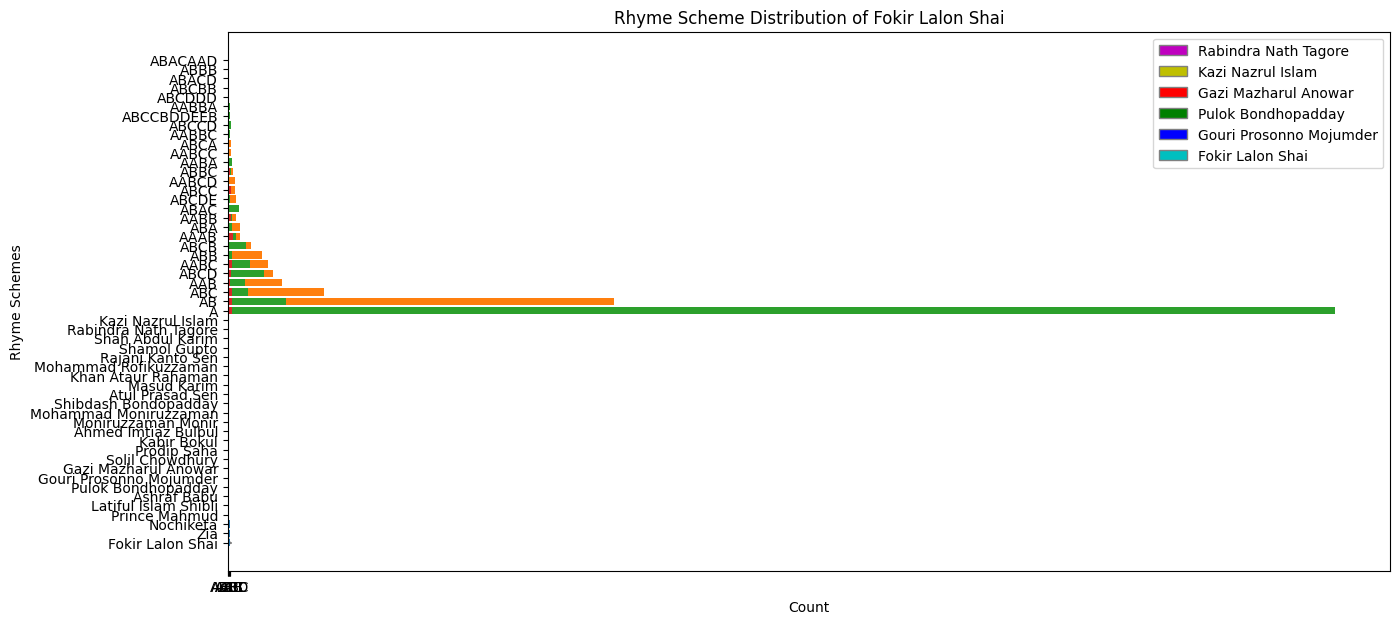
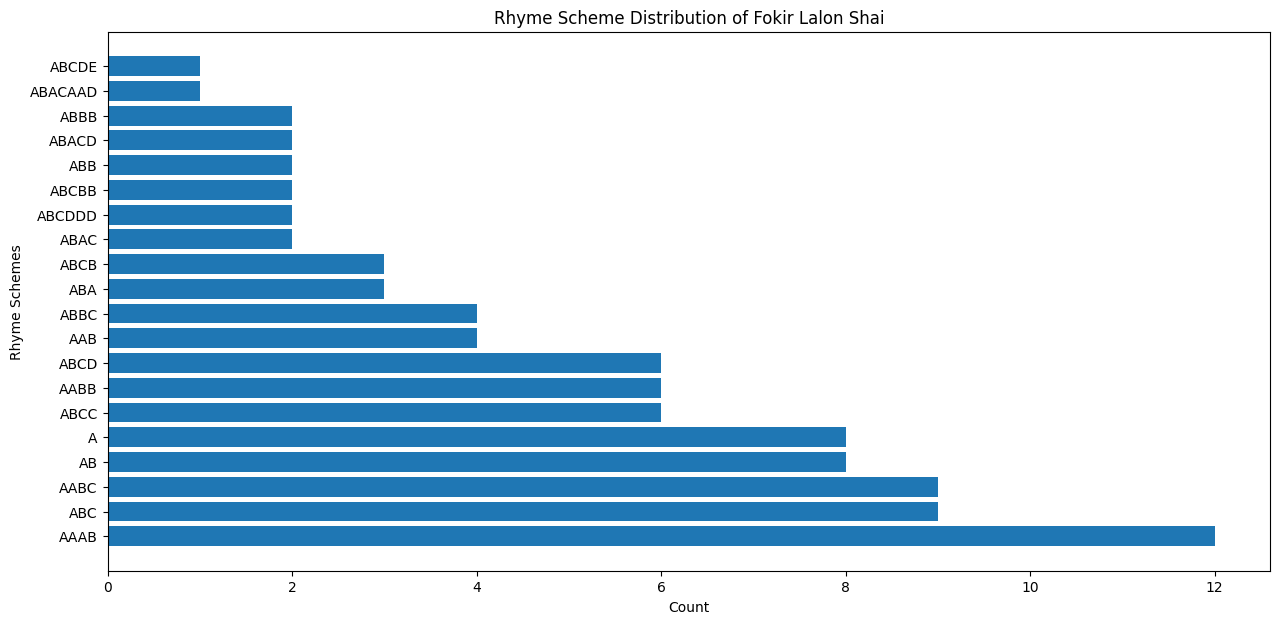
rhymeanalysis

diff --git a/App/cs661-project/client/src/app/rhyme/page.tsx b/App/cs661-project/client/src/app/rhyme/page.tsx
@@ -1,0 +1,186 @@
+'use client'
+import React, { useState, useEffect } from 'react';
+import axios from 'axios';
+
+const BASE_URL = 'http://127.0.0.1:5000';
+
+const RhymeAnalysis = () => {
+  const [selectedTab, setSelectedTab] = useState('entropy');
+  const [data, setData] = useState(null);
+  const [authorNum, setAuthorNum] = useState('');
+  const [selectedAuthor, setSelectedAuthor] = useState('');
+  const [numRhymes, setNumRhymes] = useState('');
+  const [loading, setLoading] = useState(false);
+  const [image, setImage] = useState('');
+
+  useEffect(() => {
+    const fetchData = async () => {
+      try {
+        const response = await axios.get(`${BASE_URL}/data`);
+        setData(response.data);
+      } catch (error) {
+        console.error('Error fetching data:', error);
+      }
+    };
+
+    fetchData();
+  }, []);
+
+  const handleTabChange = (tab) => {
+    setSelectedTab(tab);
+    setImage('');
+  };
+
+  const handleGenerate = async () => {
+    try {
+      setLoading(true);
+      let endpoint = '';
+      switch (selectedTab) {
+        case 'entropy':
+          endpoint = 'rhymepattern';
+          break;
+        case 'topauthor':
+          endpoint = 'topauthor';
+          break;
+        case 'authorhist':
+          endpoint = 'authorhist';
+          break;
+        default:
+          break;
+      }
+
+      let url = `${BASE_URL}/${endpoint}`;
+
+      if (selectedTab === 'authorhist') {
+        url += `?author=${selectedAuthor}&num_rhymes=${numRhymes}`;
+      } else {
+        url += `?author_num=${authorNum}`;
+      }
+
+      const response = await axios.get(url);
+      setImage(url);
+    } catch (error) {
+      console.error('Error generating image:', error);
+    } finally {
+      setLoading(false);
+    }
+  };
+
+  return (
+    <div className="container mx-auto px-4 py-8">
+      <h1 className="text-3xl font-bold mb-4">Rhyme Analysis</h1>
+      <div className="mb-4">
+        <div className="flex">
+          <button
+            className={`mr-2 py-2 px-4 ${selectedTab === 'entropy' ? 'bg-blue-500 text-white' : 'bg-gray-200 text-gray-700'
+              }`}
+            onClick={() => handleTabChange('entropy')}
+          >
+            Entropy Schemes
+          </button>
+          <button
+            className={`mr-2 py-2 px-4 ${selectedTab === 'topauthor' ? 'bg-blue-500 text-white' : 'bg-gray-200 text-gray-700'
+              }`}
+            onClick={() => handleTabChange('topauthor')}
+          >
+            Top Author Rhymes
+          </button>
+          <button
+            className={`mr-2 py-2 px-4 ${selectedTab === 'authorhist' ? 'bg-blue-500 text-white' : 'bg-gray-200 text-gray-700'
+              }`}
+            onClick={() => handleTabChange('authorhist')}
+          >
+            Author Histogram
+          </button>
+        </div>
+      </div>
+
+      {selectedTab === 'entropy' && (
+        <div>
+          <div className="mt-4 flex items-center space-x-2">
+            <label htmlFor="authorNumInput">Number of Authors:</label>
+            <input
+              id="authorNumInput"
+              type="number"
+              value={authorNum}
+              onChange={(e) => setAuthorNum(e.target.value)}
+              className="border border-gray-400 px-2 py-1 rounded"
+            />
+            <button onClick={handleGenerate} className="px-4 py-1 bg-blue-500 text-white rounded hover:bg-blue-600">Generate</button>
+          </div>
+        </div>
+      )}
+
+      {selectedTab === 'topauthor' && (
+        <div className='flex justify-center content-center w-full'>
+          {/* Placeholder for Top Author Rhymes */}
+          <p>Top Author Rhymes section</p>
+          <br />
+          <button onClick={handleGenerate} className="ml-3 px-4 py-1 bg-blue-500 text-white rounded hover:bg-blue-600">Show</button>
+        </div>
+      )}
+
+      {selectedTab === 'authorhist' && (
+        <div>
+          <div className="mt-4 flex items-center space-x-2">
+            <label htmlFor="authorSelect">Select Author:</label>
+            <select
+              id="authorSelect"
+              value={selectedAuthor}
+              onChange={(e) => setSelectedAuthor(e.target.value)}
+              className="border border-gray-400 px-2 py-1 rounded"
+            >
+              <option value="">Select an author</option>
+              {data &&
+                Object.keys(data).map((author) => (
+                  <option key={author} value={author}>
+                    {author}
+                  </option>
+                ))}
+            </select>
+            <label htmlFor="numRhymesInput">Number of Rhymes:</label>
+            <input
+              id="numRhymesInput"
+              type="number"
+              value={numRhymes}
+              onChange={(e) => setNumRhymes(e.target.value)}
+              className="border border-gray-400 px-2 py-1 rounded"
+            />
+            <button onClick={handleGenerate} className="px-4 py-1 bg-blue-500 text-white rounded hover:bg-blue-600">Generate</button>
+          </div>
+        </div>
+      )}
+
+      {loading ? (
+        <div role="status" className='mx-auto flex justify-center w-full'>
+          <svg
+            aria-hidden="true"
+            className="w-8 h-8 text-gray-200 animate-spin dark:text-gray-600 fill-blue-600"
+            viewBox="0 0 100 101"
+            fill="none"
+            xmlns="http://www.w3.org/2000/svg"
+          >
+            <path
+              d="M100 50.5908C100 78.2051 77.6142 100.591 50 100.591C22.3858 100.591 0 78.2051 0 50.5908C0 22.9766 22.3858 0.59082 50 0.59082C77.6142 0.59082 100 22.9766 100 50.5908ZM9.08144 50.5908C9.08144 73.1895 27.4013 91.5094 50 91.5094C72.5987 91.5094 90.9186 73.1895 90.9186 50.5908C90.9186 27.9921 72.5987 9.67226 50 9.67226C27.4013 9.67226 9.08144 27.9921 9.08144 50.5908Z"
+              fill="currentColor"
+            />
+            <path
+              d="M93.9676 39.0409C96.393 38.4038 97.8624 35.9116 97.0079 33.5539C95.2932 28.8227 92.871 24.3692 89.8167 20.348C85.8452 15.1192 80.8826 10.7238 75.2124 7.41289C69.5422 4.10194 63.2754 1.94025 56.7698 1.05124C51.7666 0.367541 46.6976 0.446843 41.7345 1.27873C39.2613 1.69328 37.813 4.19778 38.4501 6.62326C39.0873 9.04874 41.5694 10.4717 44.0505 10.1071C47.8511 9.54855 51.7191 9.52689 55.5402 10.0491C60.8642 10.7766 65.9928 12.5457 70.6331 15.2552C75.2735 17.9648 79.3347 21.5619 82.5849 25.841C84.9175 28.9121 86.7997 32.2913 88.1811 35.8758C89.083 38.2158 91.5421 39.6781 93.9676 39.0409Z"
+              fill="currentFill"
+            />
+          </svg>
+          <span className="sr-only">Loading...</span>
+        </div>
+      ) : (
+        image && (
+          <div className="mx-auto flex justify-center w-full">
+            <img src={image} alt="Rhyme Pattern" className="mt-4 mx-auto" />
+          </div>
+        )
+      )}
+    </div>
+  );
+};
+
+export default RhymeAnalysis;
+

diff --git a/App/cs661-project/client/src/components/sidebar/index.tsx b/App/cs661-project/client/src/components/sidebar/index.tsx
@@ -2,7 +2,7 @@
 import {
   LucideIcon,
   LayoutDashboard,
-  CircleUserRound,
+  AudioWaveform,
   Settings,
   GitGraph,
   BadgePercent
@@ -38,9 +38,9 @@ const items: ISidebarItem[] = [
     icon: GitGraph,
   },
   {
-    name: "Accounts",
-    path: "/accounts",
-    icon: CircleUserRound,
+    name: "Rhyme Analysis",
+    path: "/rhyme",
+    icon: AudioWaveform,
   },
   {
     name: "Settings",

diff --git a/App/cs661-project/server/rhymeanalysis/pattern.py b/App/cs661-project/server/rhymeanalysis/pattern.py
@@ -12,7 +12,7 @@ import scipy
 from bnlp import BengaliCorpus as corpus
 
 
-filepath = '../../Dataset/SongDB.json'
+filepath = 'SongDB.json'
 
 # To Plot the Vertical Bar Chart of Lyricist as well as Rhyme Scheme
 n_top_rhymes = 6
@@ -88,8 +88,8 @@ for singer in list(data.keys()):
 		lyrics = song['Lyrics']
 		if len(lyrics) != 0:
 			cleaned_lyrics = clean(lyrics)
-			print(song)
-			print(singer)
+			# print(song)
+			# print(singer)
 			singer_dict = form_rhyme_dict(cleaned_lyrics, singer_dict)
 	dict_list[singer] = singer_dict
 
@@ -120,28 +120,31 @@ sorted_unique_key_sums = dict(sorted(key_sums.items(), key = lambda key_val: key
 
 
 
-fig = plt.figure(figsize = (15, 7))
-color_list = ['r', 'g', 'b', 'c', 'm', 'y']
-bar_width = 0.10
-x = np.arange(n_top_rhymes)
-for i in range(0, n_top_singers):
-    singer_name = list(sorted_lyricist_count.items())[i][0]
-    singer_dict = dict_list[singer_name]
-    total_lyrics = sum(list(singer_dict.values()))
-    values = []
-    for j in list(sorted_unique_key_sums.keys())[0:n_top_rhymes]:
-        values.append(singer_dict[j] / total_lyrics)
-    x = [y + bar_width for y in x]
-    plt.bar(x , values, color = color_list[i-2], width = bar_width, label = singer_name, edgecolor ='grey')
-plt.xlabel('Rhyme Scheme')
-plt.ylabel('Count')
-plt.xticks([r + (bar_width) for r in range(n_top_rhymes)], 
-        list(sorted_unique_key_sums.keys())[:n_top_rhymes])
-plt.title('Use of Top Most Rhyme Scheme amongst Top Most Authors')
-plt.legend()
-plt.savefig('Plot3.png', bbox_inches='tight')  # Save plot as PNG
+def top_author():
+    fig = plt.figure(figsize = (15, 7))
+    color_list = ['r', 'g', 'b', 'c', 'm', 'y']
+    bar_width = 0.10
+    x = np.arange(n_top_rhymes)
+    for i in range(0, n_top_singers):
+        singer_name = list(sorted_lyricist_count.items())[i][0]
+        singer_dict = dict_list[singer_name]
+        total_lyrics = sum(list(singer_dict.values()))
+        values = []
+        for j in list(sorted_unique_key_sums.keys())[0:n_top_rhymes]:
+            values.append(singer_dict[j] / total_lyrics)
+        x = [y + bar_width for y in x]
+        plt.bar(x , values, color = color_list[i-2], width = bar_width, label = singer_name, edgecolor ='grey')
+    plt.xlabel('Rhyme Scheme')
+    plt.ylabel('Count')
+    plt.xticks([r + (bar_width) for r in range(n_top_rhymes)], 
+            list(sorted_unique_key_sums.keys())[:n_top_rhymes])
+    plt.title('Use of Top Most Rhyme Scheme amongst Top Most Authors')
+    plt.legend()
+    plt.savefig('./generated/Plot3.png', bbox_inches='tight')  # Save plot as PNG
 
-plt.show()
+    plt.show()
+    
+    return './generated/Plot3.png'
         
 """
  As we have very skewed distributed of songs across, we have normalized the counts of rhymes across each author. Here we can see that the rhymes 'A' is most used.
@@ -173,14 +176,10 @@ def cal_entropy_and_plot(dict_list, sorted_lyricist_count, n_author):
     plt.xlabel('Entropy')
     plt.ylabel('Lyricist')
     plt.title('Comparing Entropy of lyricist')
-    plt.savefig('Plot2.png', bbox_inches='tight')  # Save plot as PNG
+    plt.savefig('./generated/Plot2.png', bbox_inches='tight')  # Save plot as PNG
 
     plt.show()
-    return None
-
-
-cal_entropy_and_plot(dict_list, sorted_lyricist_count, n_author)
-
+    return './generated/Plot2.png'
 
 
 # Plot Histogram of Lyrics by Rabindranath Tagore
@@ -194,18 +193,26 @@ def plot_histogram(singer_name, num_rhymes = 20):
     plt.xlabel('Count')
     plt.ylabel('Rhyme Schemes')
     plt.title('Rhyme Scheme Distribution of {}'.format(singer_name))
-    plt.savefig(f'Plot1{singer_name}.png', bbox_inches='tight')  # Save plot as PNG
+    plt.savefig(f'./generated/Plot1{singer_name}.png', bbox_inches='tight')  # Save plot as PNG
     plt.show()
 
-    return None
+    return (f'./generated/Plot1{singer_name}.png')
+
+def calculate_entropy(n_author):
+    # print(n_author)
+    return cal_entropy_and_plot(dict_list, sorted_lyricist_count, int(n_author))
+
+def author_histogram(author, num_rhymes):
+    print(author, num_rhymes)
+    return plot_histogram(author, num_rhymes)
+
+# plot_histogram('Rabindra Nath Tagore', num_rhymes)
 
 
+# plot_histogram('Kazi Nazrul Islam', num_rhymes)
 
-plot_histogram('Rabindra Nath Tagore', num_rhymes)
+# plot_histogram('Fokir Lalon Shai', num_rhymes)
 
+# plot_histogram('Zia', num_rhymes)
 
-plot_histogram('Kazi Nazrul Islam', num_rhymes)
-
-plot_histogram('Fokir Lalon Shai', num_rhymes)
-
-plot_histogram('Zia', num_rhymes)
+# top_author()

diff --git a/App/cs661-project/server/app.py b/App/cs661-project/server/app.py
@@ -4,6 +4,7 @@ from flask import jsonify
 import json
 from flask_cors import CORS, cross_origin
 import os
+from rhymeanalysis.pattern import calculate_entropy, top_author, author_histogram
 
 app = Flask(__name__)
 cors = CORS(app)
@@ -86,6 +87,44 @@ def get_files(folder_name):
         return jsonify(files)
     except Exception as e:
         return jsonify({'error': str(e)}), 500
+    
+    
+@app.route('/rhymepattern', methods=['GET'])
+@cross_origin()
+def rhyme_pattern():
+    n_author = request.args.get('author_num')  # Get the singer name from the query parameters
+    if not n_author:
+        return "Error: Author Number is required.", 400
+    try:
+        result = ''
+        result = calculate_entropy(n_author)
+        return send_file(result, mimetype='image/png')
+    except Exception as e:
+        print(e)
+        return jsonify({'error': str(e)}), 500
+    
+@app.route('/topauthor', methods=['GET'])
+@cross_origin()
+def call_top_author():
+    try:
+        result = ''
+        result = top_author()
+        return send_file(result, mimetype='image/png')
+    except Exception as e:
+        return jsonify({'error': str(e)}), 500
+    
+@app.route('/authorhist', methods=['GET'])
+@cross_origin()
+def author_hist():
+    author = request.args.get('author')  # Get the singer name from the query parameters
+    num_rhymes = request.args.get('num_rhymes')  # Get the singer name from the query parameters
+    try:
+        result = ''
+        result = author_histogram(author, int(num_rhymes))
+        return send_file(result, mimetype='image/png')
+    except Exception as e:
+        return jsonify({'error': str(e)}), 500
+    
 
 if __name__ == '__main__':
     app.run(debug=True)
